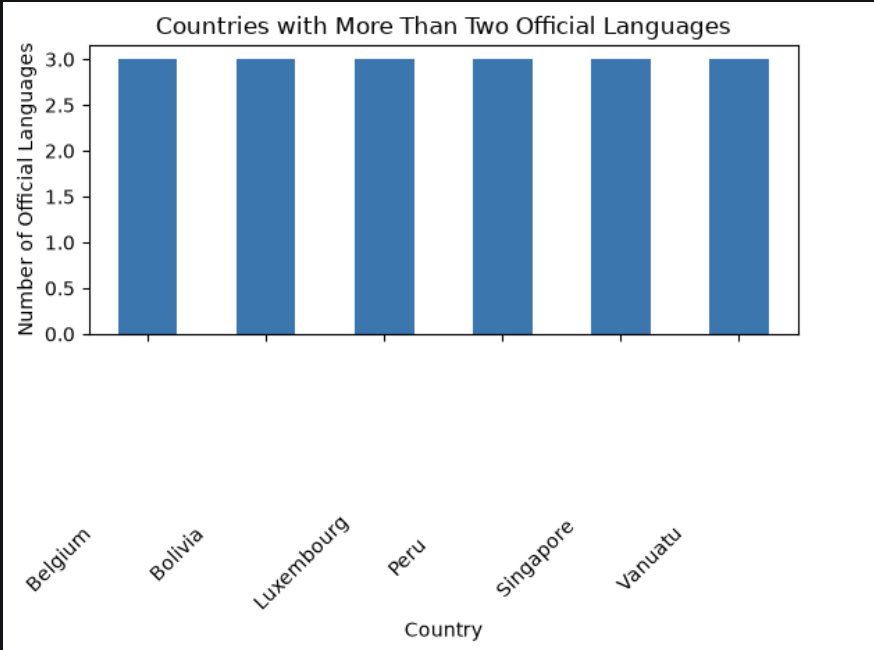
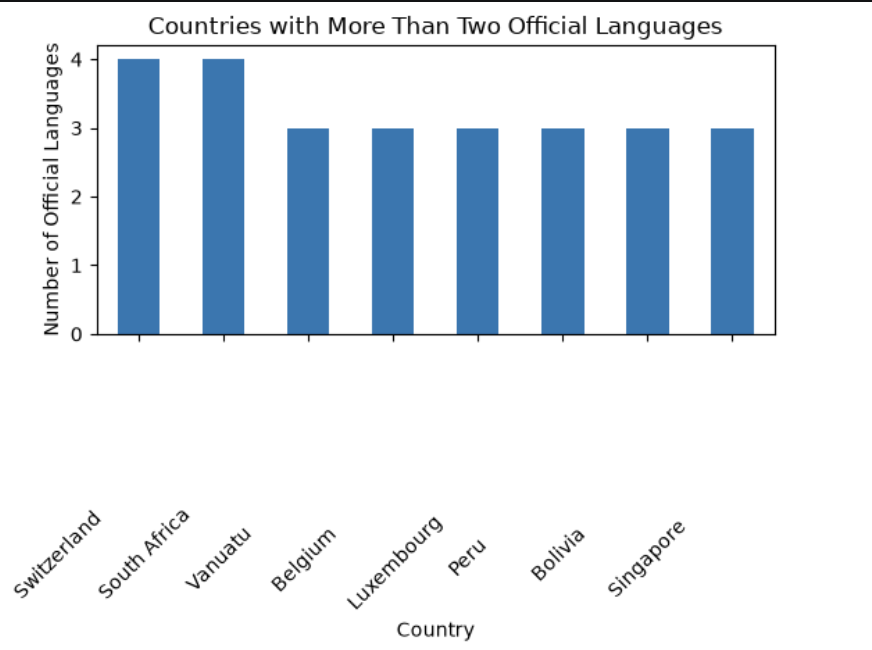
update ex 4

diff --git a/exercises/exercise04.md b/exercises/exercise04.md
@@ -42,8 +42,8 @@ JOIN countrylanguage AS cl
     ON c.code = cl.countrycode
 WHERE cl.isofficial = 'T'
 GROUP BY c.name
-HAVING COUNT(cl.language) = 3
-ORDER BY country;
+HAVING COUNT(cl.language) > 2
+ORDER BY official_language_count DESC;
 ```
 
 ### Screenshot
@@ -74,8 +74,13 @@ JOIN countrylanguage AS cl
     ON c.code = cl.countrycode
 WHERE cl.isofficial = 'T'
 GROUP BY c.name
-HAVING COUNT(cl.language) = 3
-ORDER BY country;
+HAVING COUNT(cl.language) > 2
+ORDER BY official_language_count DESC;
+"""
+
+df = pd.read_sql(query, engine)
+
+display(df)
 """
 
 df = pd.read_sql(query, engine)
